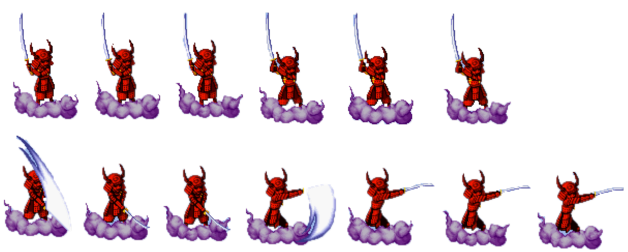
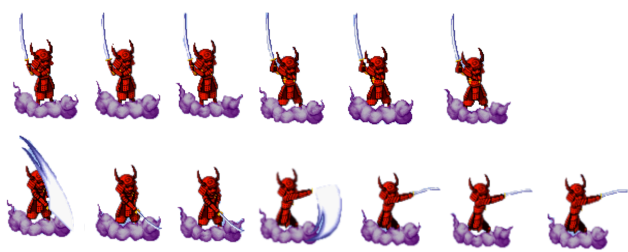
made changes to Ganon

Changed region(s): [[0.0, 0.5278, 0.8471, 1.0], [0.8471, 0.6667, 1.0, 1.0]]

diff --git a/Ganon.js b/Ganon.js
@@ -1,93 +1,132 @@
 class Ganon {
-    constructor(game) {
-        this.game = game;
+    constructor(game, x, y) {
+      Object.assign(this, { game, x, y });
         this.spritesheet = ASSET_MANAGER.getAsset('./boss_sprites/Ganondorf.png');
         //this.game.ganon = this;
 
-        this.x = 50;
-        this.y = 0;
+        this.x = x;
+        this.y = y;
         this.speed = 250;
-        this.state = 1; // 0 = idle, 1 = walking, 2 = attacking
-        this.facing = 0; // 0 = down, 1 = left, 2 = up, 3 = right
+        this.phase = 0; // 0 = first phase (no spear), 1 = second phase (w/ spear), 2 = third phase (bat phase)
+        this.state = 0; // 0 = idle, 1 = walking, 2 = attacking
+        this.facing = 1; // 0 = down, 1 = left, 2 = up, 3 = right
+
+        //this.velocity = { x: this.x, y: this.y };
 
         this.animations = [];
         this.loadAnimations();
+        this.updateBB();
     };
 
     loadAnimations() {
-      for (let i = 0; i < 3; i++) { // three states
+      for (let i = 0; i < 3; i++) { // three phases
         this.animations.push([]);
-        for (let j = 0; j < 4; j++) { // directions
+        for (let j = 0; j < 3; j++) { // three states
           this.animations[i].push([]);
+          for (let k = 0; k < 4; k++) { // four directions
+            this.animations[i][j].push([]);
+          }
         }
       }
 
+      // phase 0 (no spear) idle
+      this.animations[0][0][0] = new Animator(this.spritesheet, 27, 66, 75, 46, 4, 0.9, 0, false, true, false);
+
+      // phase 0, idle left
+      this.animations[0][0][1] = new Animator(this.spritesheet, 24, 225, 55, 50, 1, 0.33, 0, false, true, false);
+
+      // phase = 1
       // idle animation for state = 0
       // facing down = 0
-      this.animations[0][0] = new Animator(this.spritesheet, 375, 83, 76, 68, 4, 0.33, 0, false, true, false);
+      this.animations[1][0][0] = new Animator(this.spritesheet, 375, 83, 76, 68, 4, 0.33, 0, false, true, false);
 
       // idle animation for facing left
-      this.animations[0][1] = new Animator(this.spritesheet, 378, 307, 62, 73, 1, 0.33, 0, false, true, false);
+      this.animations[1][0][1] = new Animator(this.spritesheet, 378, 307, 62, 73, 1, 0.33, 0, false, true, false);
 
       // idle animation for facing upskee
-      this.animations[0][2] = new Animator(this.spritesheet, 361, 230, 66, 73, 1, 0.33, 0, false, true, false);
+      this.animations[1][0][2] = new Animator(this.spritesheet, 361, 230, 66, 73, 1, 0.33, 0, false, true, false);
 
       // idle animation for facing right
-      this.animations[0][3] = new Animator(this.spritesheet, 378, 383, 58, 73, 1, 0.33, 0, false, true, false);
+      this.animations[1][0][3] = new Animator(this.spritesheet, 378, 383, 58, 73, 1, 0.33, 0, false, true, false);
 
       // walking animation for walking down
-      this.animations[1][0] = new Animator(this.spritesheet, 361, 157, 67, 71, 5, 0.33, 0, false, true, false);
+      this.animations[1][1][0] = new Animator(this.spritesheet, 361, 157, 67, 71, 5, 0.22, 0, false, true, false);
 
       // walking animation walking left
-      this.animations[1][1] = new Animator(this.spritesheet, 378, 307, 62, 73, 5, 0.20, 0, false, true, false);
+      this.animations[1][1][1] = new Animator(this.spritesheet, 378, 307, 62, 73, 5, 0.20, 0, false, true, false);
 
       // walk up
-      this.animations[1][2] = new Animator(this.spritesheet, 361, 230, 66, 73, 5, 0.20, 0, false, true, false);
+      this.animations[1][1][2] = new Animator(this.spritesheet, 361, 230, 66, 73, 5, 0.20, 0, false, true, false);
 
       // walk right
-      this.animations[1][3] = new Animator(this.spritesheet, 378, 383, 56, 73, 5, 0.20, 0, false, true, false);
+      this.animations[1][1][3] = new Animator(this.spritesheet, 378, 383, 56, 73, 5, 0.20, 0, false, true, false);
 
-      // attack down (only direction)
-      this.animations[2][0] = new Animator(this.spritesheet, 710, 11, 92, 77, 4, 0.20, 0, false, true, false);
+      // attack down (only direction - spear throw)
+      this.animations[1][2][0] = new Animator(this.spritesheet, 710, 11, 92, 77, 4, 0.20, 0, false, true, false);
 
       this.deadAnim = new Animator(this.spritesheet, 17, 689, 77, 44, 4, 0.33, 0, false, false, false);
 
     };
 
+    updateBB() {
+      if (this.phase == 0 && this.animations[0][0][0]) {
+        this.boundingBox = new BoundingBox(this.x + 10, this.y, 50, 45);
+      } else if (this.phase == 0 && this.animations[0][0][1]) {
+        this.boundingBox = new BoundingBox(10, 0, 20, 10);
+      }
+      //  else if (this.state == 0 && this.animations[1][0][0]) {
+      //   this.boundingBox = new BoundingBox(this.x + 16, this.y + 20, 45, 47);
+      // } else if (this.state == 0 && this.animations[1][0][1]) {
+      //   this.boundingBox = new BoundingBox(this.x, this.y + 30, 50, 15);
+      // } else if (this.state == 0 && this.animations[1][0][2]) {
+      //   this.boundingBox = new BoundingBox(this.x, this.y, 10, 10);
+      // } else if (this.state == 1 && this.animations[1][1][0]) {
+      //   this.boundingBox = new BoundingBox(this.x + 12, this.y + 20, 53, 47);
+      // }
+    };
+
     update() {
-      if (this.animations[0][0]) {
-        this.x = 800;
-      } else if (this.animations[1][0]) {
-        this.y += this.speed * this.game.clockTick;
+      if (this.animations[1][0][0] || 
+          this.animations[1][0][1] || 
+          this.animations[1][0][2] || 
+          this.animations[1][0][3]) {
+
+        this.x = 300;
+        this.y = 20;
+
+      } else if (this.animations[1][1][0]) {
+        this.y = this.y + (this.speed * this.game.clockTick);
         console.log("Y: ", this.y);
-        if (this.y > 768) {
-          this.animations[1][2];
-          this.y -= this.speed * this.game.clockTick;
-        }
-      } else if (this.animations[1][3]) {
+        // if (this.y > 768) {
+        //   this.animations[1][2];
+        //   this.y -= this.speed * this.game.clockTick;
+        // }
+      } else if (this.animations[1][1][3]) {
         this.x += this.speed * this.game.clockTick;
         if (this.x > 1024) {
           this.animations[1][1];
           this.x -= this.speed * this.game.clockTick; // this.x = 0;
         } else {
-          this.animations[this.state][this.facing];
+          this.animations[this.phase][this.state][this.facing];
         }
       }
+      this.updateBB();
 
-        //this.animators.forEach(anim => anim.elapsedTime += this.game.clockTick);
-
-        //this.state = this.speed > 0 ? 'walk right' : 'walk left'; 
-        //if (this.state == 'walk left') this.x = 1200;
     };
 
     draw(ctx) {
 
       if (this.dead) {
-        this.deadAnim.drawFrame(this.game.clockTick, ctc, this.x, this.y, 2);
+        this.deadAnim.drawFrame(this.game.clockTick, ctc, this.x, this.y, 1);
       } else {
-        this.animations[this.state][this.facing].drawFrame(this.game.clockTick, ctx, this.x, this.y, 2);
+        this.animations[this.phase][this.state][this.facing].drawFrame(this.game.clockTick, ctx, this.x, this.y, 1);
       }
-
+      // drawing the hitbox of the attack animation
+		  if (PARAMS.DEBUG && this.boundingBox) {
+			  ctx.strokeStyle = 'Blue';
+			  ctx.strokeRect(this.boundingBox.x, this.boundingBox.y, this.boundingBox.width, this.boundingBox.height);
+        //this.updateBB();
+		  }
     };
 
 }

diff --git a/main.js b/main.js
@@ -26,19 +26,19 @@ ASSET_MANAGER.downloadAll(() => {
 	const ctx = canvas.getContext("2d");
 	ctx.imageSmoothingEnabled = true;
 
-	gameEngine.addEntity(new Ganon(gameEngine));
-	gameEngine.addEntity(new Akagane(gameEngine));
-	gameEngine.addEntity(new Link(gameEngine,0,0));
-	gameEngine.addEntity(new Skeleton(gameEngine));
-    gameEngine.addEntity(new Coin(gameEngine));
-    gameEngine.addEntity(new HealthPotion(gameEngine));
-    gameEngine.addEntity(new InvisiblePotion(gameEngine));
-    gameEngine.addEntity(new PowerPotion(gameEngine));
-    gameEngine.addEntity(new Treasure(gameEngine));
-	gameEngine.addEntity(new Goblin(gameEngine));
-    gameEngine.addEntity(new Banshee(gameEngine));
-    gameEngine.addEntity(new Knight(gameEngine));
-	gameEngine.addEntity(new Wizard(gameEngine));
+	gameEngine.addEntity(new Ganon(gameEngine, 0, 0));
+	// gameEngine.addEntity(new Akagane(gameEngine));
+	// gameEngine.addEntity(new Link(gameEngine,0,0));
+	// gameEngine.addEntity(new Skeleton(gameEngine));
+    // gameEngine.addEntity(new Coin(gameEngine));
+    // gameEngine.addEntity(new HealthPotion(gameEngine));
+    // gameEngine.addEntity(new InvisiblePotion(gameEngine));
+    // gameEngine.addEntity(new PowerPotion(gameEngine));
+    // gameEngine.addEntity(new Treasure(gameEngine));
+	// gameEngine.addEntity(new Goblin(gameEngine));
+    // gameEngine.addEntity(new Banshee(gameEngine));
+    // gameEngine.addEntity(new Knight(gameEngine));
+	// gameEngine.addEntity(new Wizard(gameEngine));
 
 	gameEngine.init(ctx);
 

diff --git a/Akagane.js b/Akagane.js
@@ -6,7 +6,7 @@ class Akagane {
         this.x = 0;
         this.y = 500;
         this.speed = 250;
-        this.state = 0; // 0 = idle, 1 = walking, 2 = attacking
+        this.state = 2; // 0 = idle, 1 = walking, 2 = attacking
         this.facing = 0; // 0 = right
 
         this.animations = [];
@@ -28,13 +28,13 @@ class Akagane {
         this.animations[1][0] = new Animator(this.spritesheet, 0, 0, 85, 130, 6, 0.33, 0, false, true, false);
 
         // attacking animation
-        this.animations[2][0] = new Animator(this.spritesheet, 0, 134, 89, 130, 7, 0.33, 0, false, true, false);
+        this.animations[2][0] = new Animator(this.spritesheet, 0, 134, 85, 130, 7, 1, 14, false, true, false);
     };
 
     update() {
         if (this.animations[0][0]) {
             this.x = 100;
-        } else if (this.animations[1][0] || this.x == 0) {
+        } else if (this.animations[1][0]) {
             this.x += this.speed * this.game.clockTick;
             if (this.x > 1024) {
                 this.x -= this.speed * this.game.clockTick;
